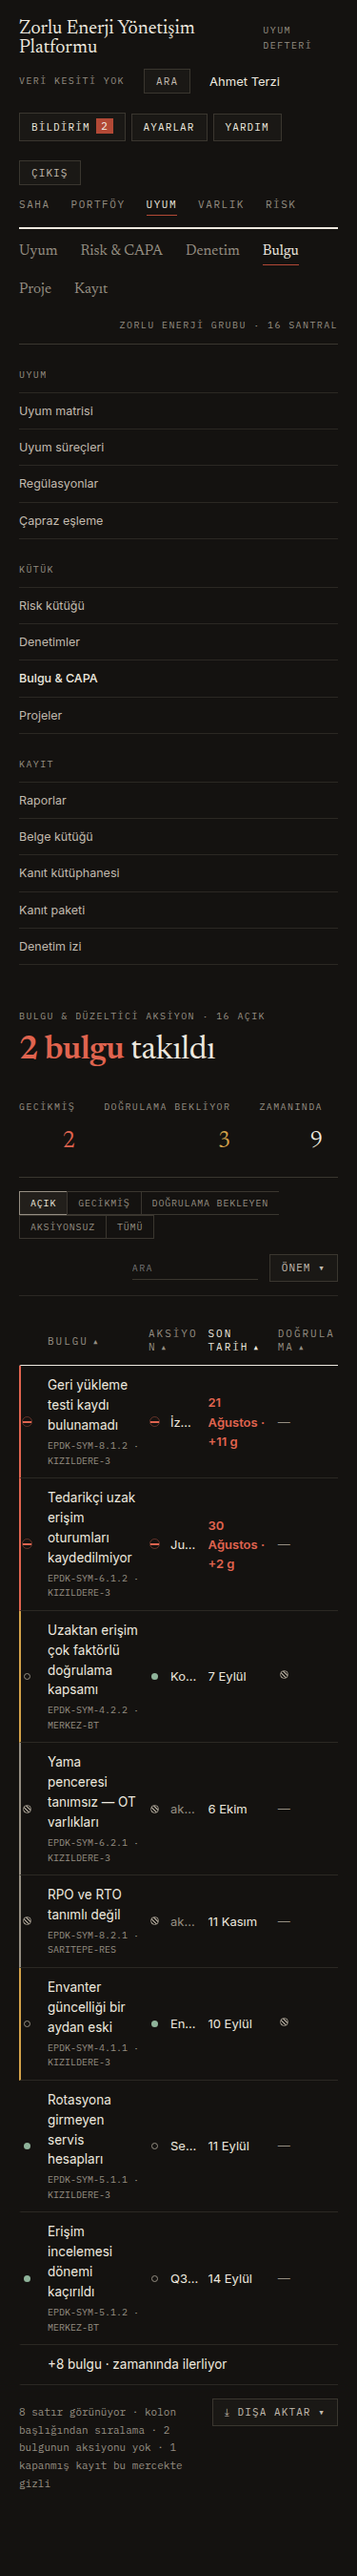
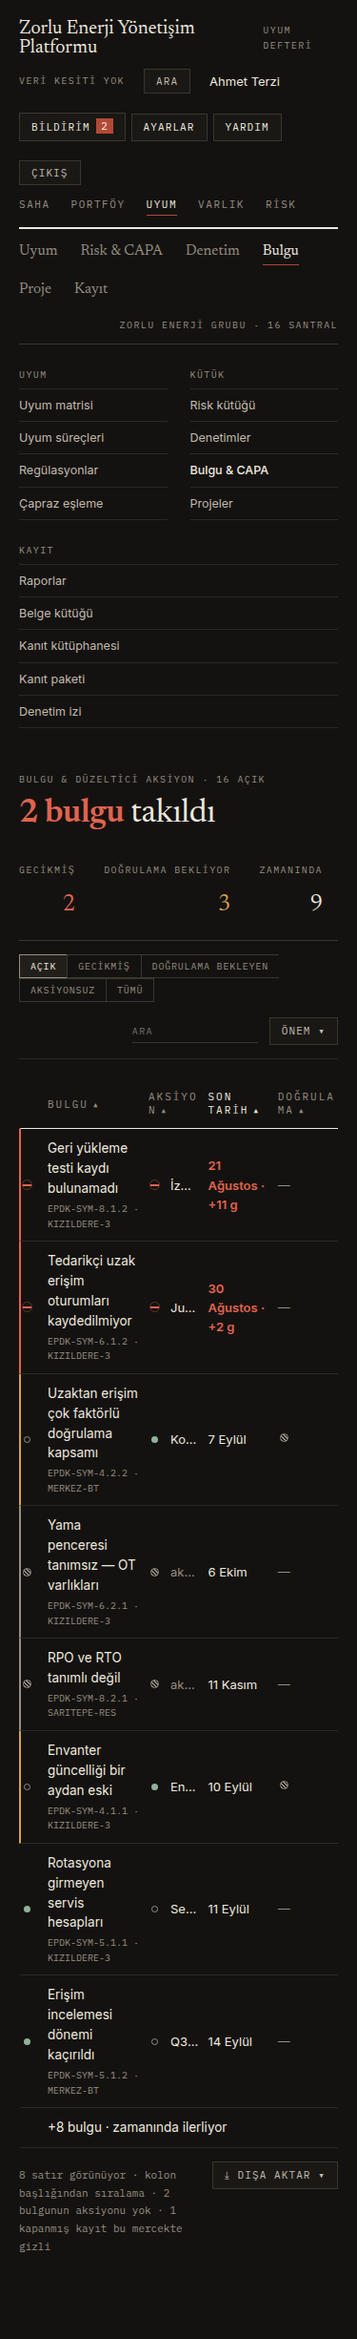
Polish turu: telefon dizini, süzgeç oluğu, nabız halkası
Tek turda altı ekran iki bantta bakıldı; üç kusur çıktı, üçü kapatıldı,
tek doğrulama turuyla teyit edildi.

· Defter dizini telefonda tek kolonda 626px sürüyordu ve ekranın kendi
  içeriği 1035px'te, yani ikinci ekranda başlıyordu (375×812'de ölçüldü).
  İki kolona indi: dizin 378px, içerik 787px'te. Dizin kaybolmadı,
  sıkıştı.
· Portföy süzgecindeki `select`, 160px tabanı ve iki satıra kırılan
  etiketiyle sağ oluğu yiyordu — kutunun sağ kenarı 374px'teydi, oysa
  şeridin dolgusu 20px. Etiket üste geçti, kutu satırı paylaşıyor,
  oluk geri geldi (355px).
· Saha takımyıldızındaki nabız halkası 2,4× yarıçapla komşu santralin
  künyesini süpürüyordu. 1,6× aynı sinyali verir, komşuya girmez.

Kapılar: lint 0 · tsc 0 · vitest 68/1267 · tasarım kapısı 0 · rota duman
46/46 · gezinme 7 bant 0 · axe 39 rota 0 · yatay taşma 76 ölçüm 0 ·
görsel regresyon 16/16 · demo:build başarılı.

Claude-Session: https://claude.ai/code/session_01Y9RmBnTc5aC7rP7YXyzrH7

diff --git a/web/app/kabuk.css b/web/app/kabuk.css
@@ -637,9 +637,12 @@
   position: absolute; inset: -8px; border: 1px solid var(--bd); border-radius: 50%;
   animation: ab-halka 3.6s ease-out infinite;
 }
+/* Süpürme yarıçapı 2,4 idi: halka 38px'e çıkıp KOMŞU işaretin künyesini
+   siliyordu (ölçüldü: 1440px'te "Gökçedağ RES" satırı Kızıldere III'ün
+   halkası altında okunmuyordu). 1,6 aynı sinyali verir, komşuya girmez. */
 @keyframes ab-halka {
   0% { transform: scale(.6); opacity: .8; }
-  100% { transform: scale(2.4); opacity: 0; }
+  100% { transform: scale(1.6); opacity: 0; }
 }
 .ab-b-takim .kunye {
   position: absolute; left: 18px; top: -9px; white-space: nowrap; display: grid; gap: 2px;
@@ -2918,6 +2921,21 @@ details:not([open]) > *:not(summary) { display: none !important; }
   .ab-portfoy-endeks { padding-left: 0; border-left: 0; }
   .ab-portfoy-denetim { padding: 8px 20px; }
   .ab-portfoy-denetim .cumle { margin-left: 0; flex-basis: 100%; }
+  /* Süzgeç etiketi telefonda iki satıra kırılıyor, `select` de 160px
+     tabanıyla sağ oluğu YİYORDU: kutunun sağ kenarı 374px'te, oysa
+     şeridin dolgusu 20px (ölçüldü). Etiket üste geçer, kutu satırı
+     paylaşır ve oluk geri gelir. */
+  .ab-portfoy-denetim .secim {
+    flex: 1 1 100%; flex-wrap: wrap; align-items: flex-start; gap: 4px;
+  }
+  .ab-portfoy-denetim .secim select { flex: 1 1 100%; min-width: 0; }
+
+  /* Defter dizini telefonda İKİ KOLON. Tek kolonda 626px sürüyor ve
+     ekranın kendi içeriği 1035px'te, yani ikinci ekranda başlıyordu
+     (ölçüldü, 375×812). Dizin kaybolmaz — sıkışır. */
+  .ab-c-dizin .bolum { flex: 1 1 140px; }
+  .ab-c-dizin .satir { padding: 7px 0; }
+  .ab-c-dizin .bolum > .etiket { margin-bottom: 6px; }
   .ab-isi .izgara { grid-template-columns: auto repeat(5, minmax(48px, 1fr)); grid-template-rows: repeat(5, 36px) auto; }
   .ab-isi .hucre .esik { letter-spacing: 0; }
   .ab-c-kural, .ab-c-kural-kalin { margin-left: 20px; margin-right: 20px; }

diff --git a/docs/HAZIRLIK_DURUMU.md b/docs/HAZIRLIK_DURUMU.md
@@ -25,6 +25,7 @@ uydurulmuş tek bir sayı yoktur.
 | Görsel regresyon | 16/16 · eşik %0,5 | altınlar sıfırdan seed ile üretildi |
 | Lighthouse | /giris 99 · / 98 · /uyum 99 · /bulgular 99 · **/portfoy 91** | **üretim derlemesinde** (`next start`) |
 | Lighthouse (perf dışı) | 5 rotanın 5'inde erişilebilirlik · en iyi uygulama · SEO **100** | |
+| Polish turu | 6 ekran × 2 bant · 3 kusur bulundu ve kapatıldı | tek tur + tek doğrulama |
 | demo:build | başarılı | yayın · statik · kolon kontrolleri temiz |
 | Veri | 98 tablonun **97'si dolu** · 3 649 kayıt | tek boş: `IsKilidi` (çalışma-anı kilidi) |
 | CI | `pr-kapisi.yml` + `publish.yml` var | lint → tsc → test → tasarım → derleme |
@@ -76,6 +77,13 @@ durumda; kapsanmayan yer, yetki kapısı ve form davranışlarının olduğu yer
   (90) altındaki kategorilerin gerekçesini topluyordu; 100'den 91'e düşen
   bir kategori sebepsiz kalıyordu. Artık tam olmayan her kategori
   gerekçesini yazar — `/uyum`un eksik ana bölgesi böyle bulundu.
+
+`/impeccable polish` tek turda üç kusur buldu ve üçü de kapatıldı:
+telefon dizini tek kolonda 626px sürüyor ve defter ekranlarının içeriği
+1035px'te — yani ikinci ekranda — başlıyordu (iki kolona indi, 378px);
+portföy süzgecindeki `select` 160px tabanıyla sağ oluğu yiyordu; saha
+takımyıldızındaki nabız halkası 2,4× yarıçapla komşu santralin künyesini
+süpürüyordu.
 
 ### P2 — üretim öncesi
 
